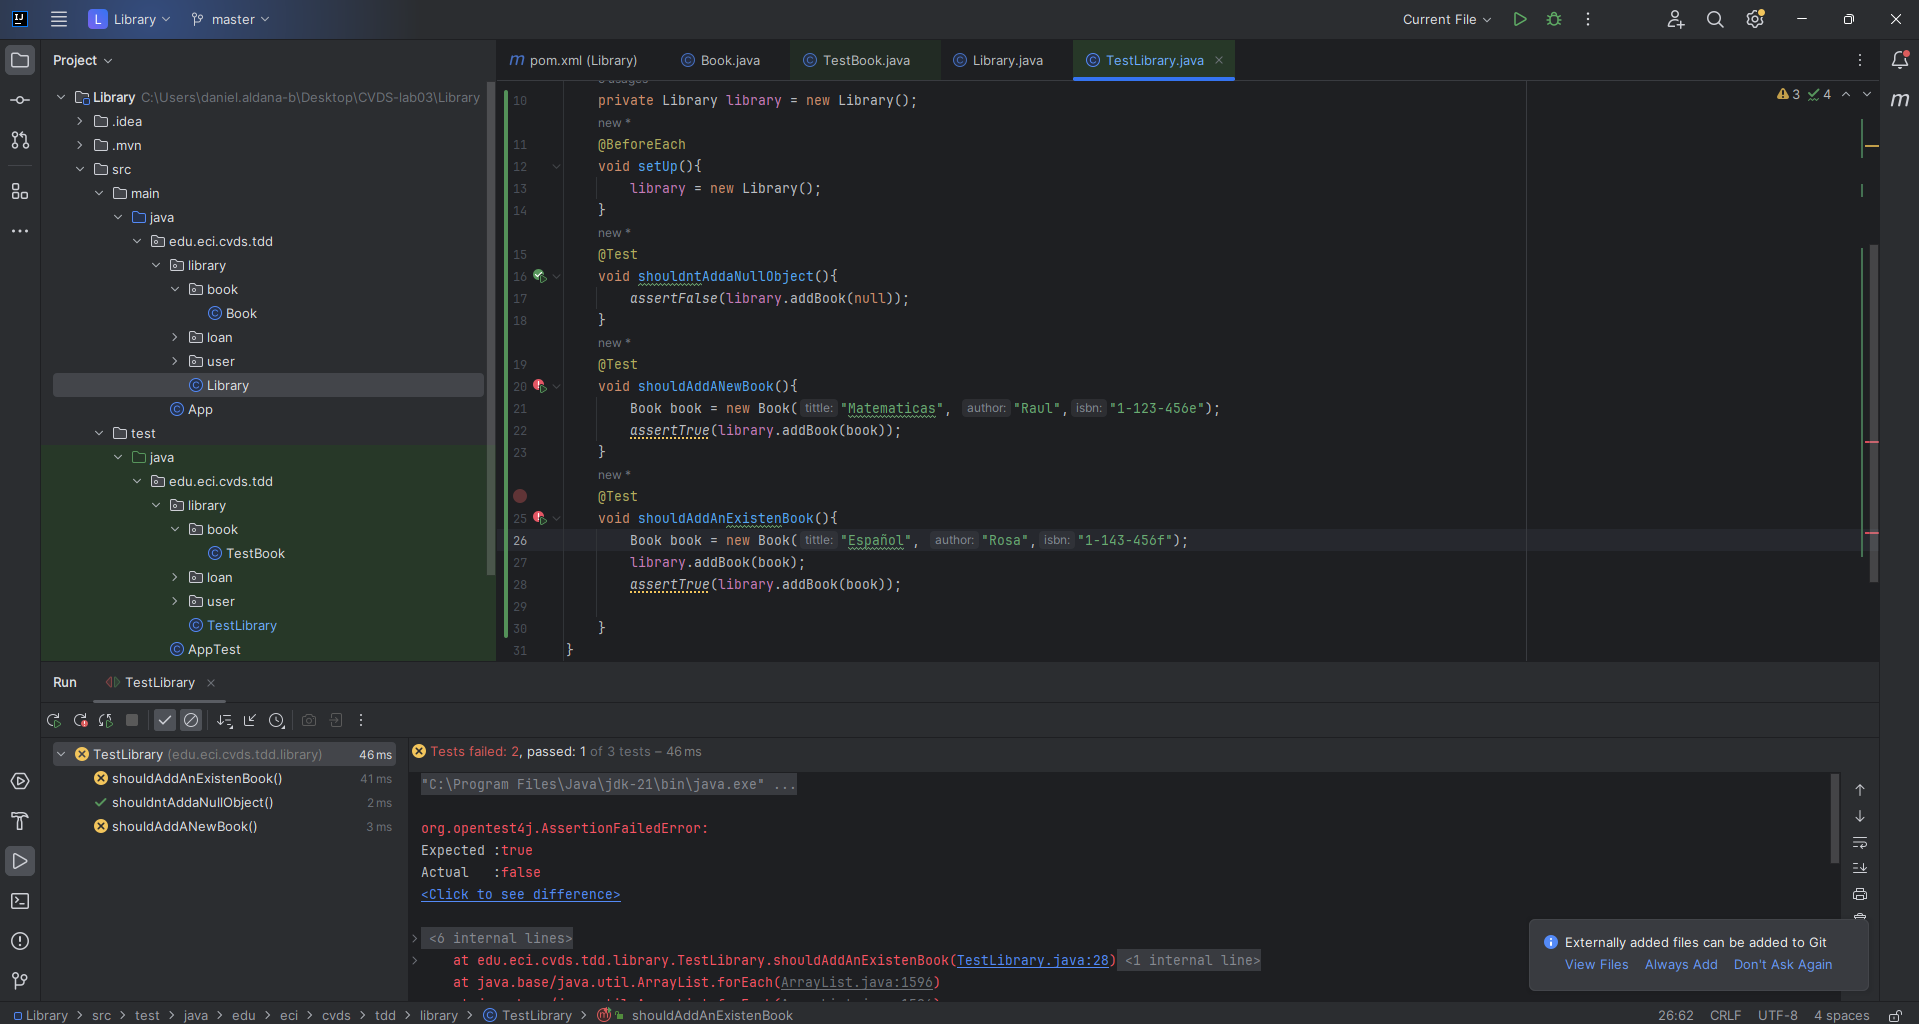
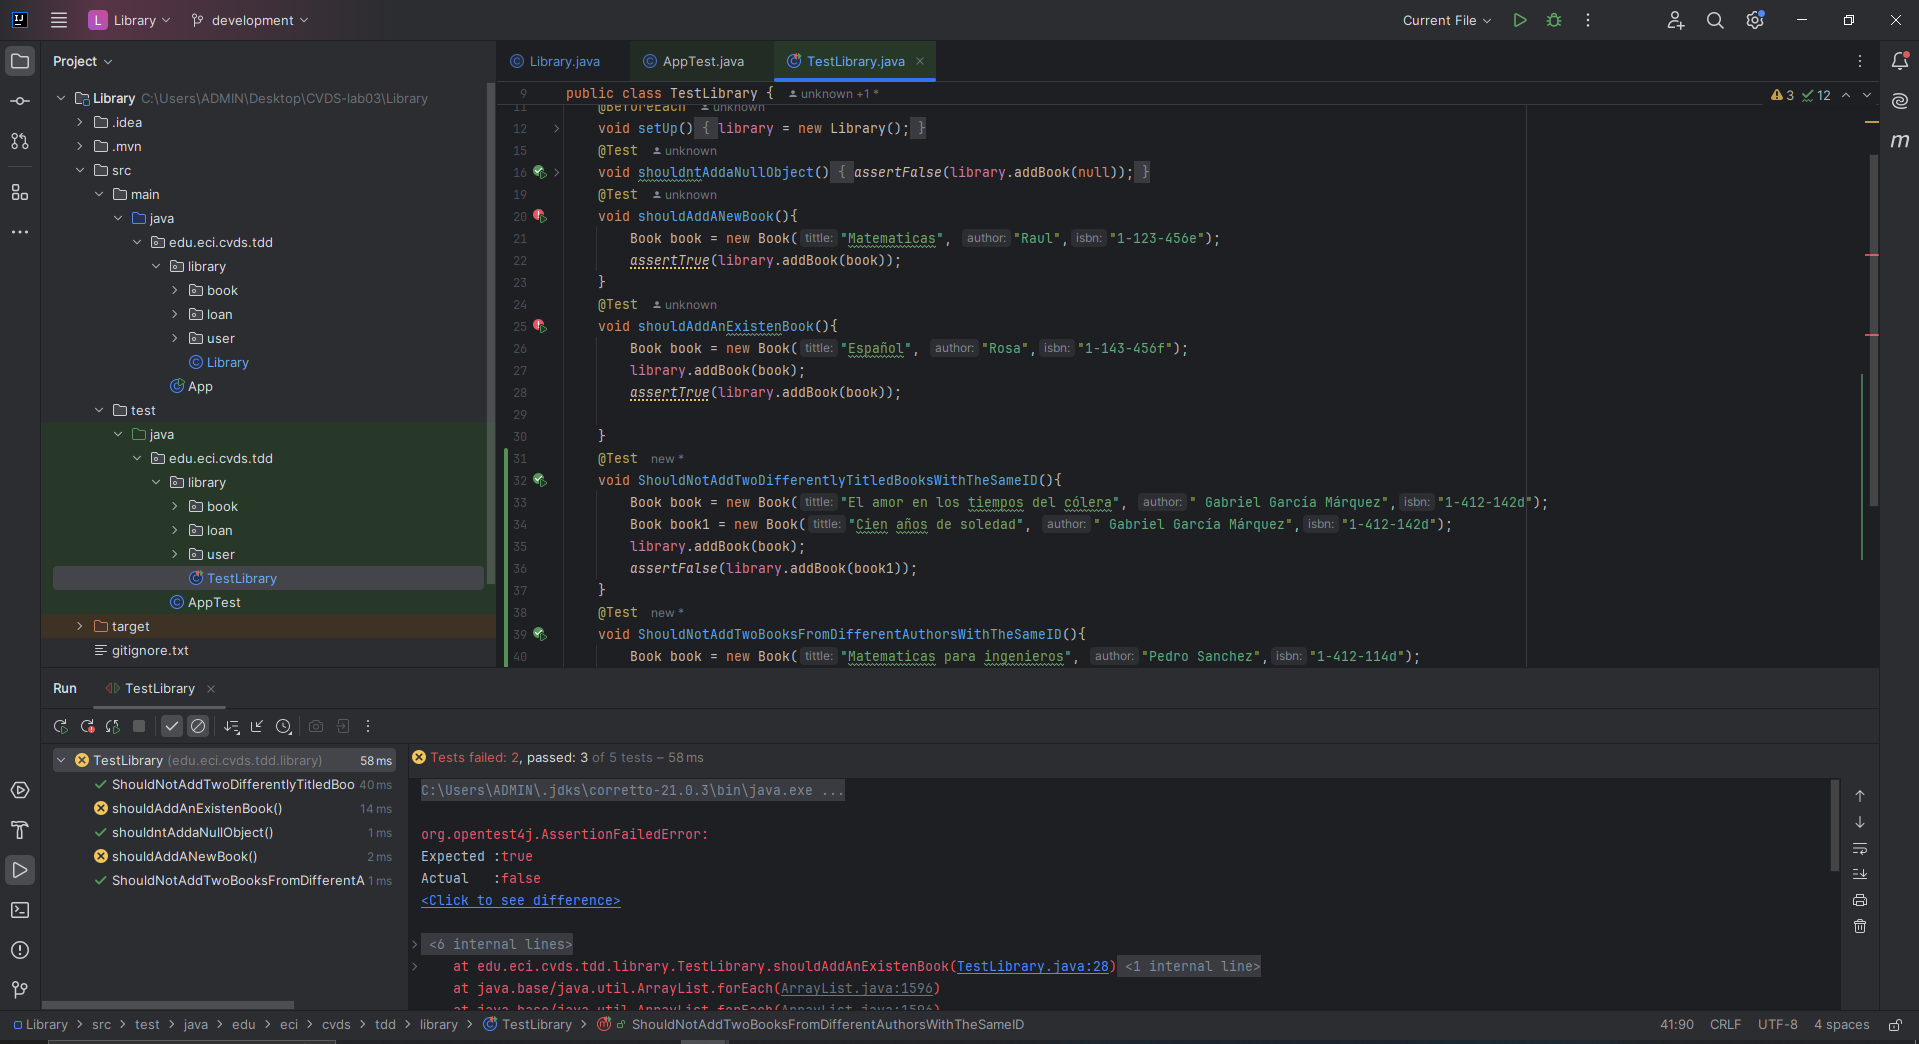
Pruebas addBook

diff --git a/Library/src/test/java/edu/eci/cvds/tdd/library/TestLibrary.java b/Library/src/test/java/edu/eci/cvds/tdd/library/TestLibrary.java
@@ -28,4 +28,19 @@ public class TestLibrary {
         assertTrue(library.addBook(book));
 
     }
+    @Test
+    void ShouldNotAddTwoDifferentlyTitledBooksWithTheSameID(){
+        Book book = new Book("El amor en los tiempos del cólera", " Gabriel García Márquez","1-412-142d");
+        Book book1 = new Book("Cien años de soledad", " Gabriel García Márquez","1-412-142d");
+        library.addBook(book);
+        assertFalse(library.addBook(book1));
+    }
+    @Test
+    void ShouldNotAddTwoBooksFromDifferentAuthorsWithTheSameID(){
+        Book book = new Book("Matematicas para ingenieros", "Pedro Sanchez","1-412-114d");
+        Book book1 = new Book("Matematicas para ingenieros", "Oscar Rodriguez","1-412-114d");
+        library.addBook(book);
+        assertFalse(library.addBook(book1));
+    }
+
 }

diff --git a/Library/src/main/java/edu/eci/cvds/tdd/library/Library.java b/Library/src/main/java/edu/eci/cvds/tdd/library/Library.java
@@ -35,19 +35,9 @@ public class Library {
      */
     public boolean addBook(Book book) {
         //TODO Implement the logic to add a new book into the map.
-        if(book == null)
-        {
-            return false;
-        }
-        if(books.containsKey(book)){
-            Integer newValue = books.get(book) + 1;
-            books.put(book, newValue);
-            return true;
-        }
-        books.put(book, 1);
-        return true;
-    }
+        return false;
 
+    }
     /**
      * This method creates a new loan with for the User identify by the userId and the book identify by the isbn,
      * the loan should be store in the list of loans, to successfully create a loan is required to validate that the
